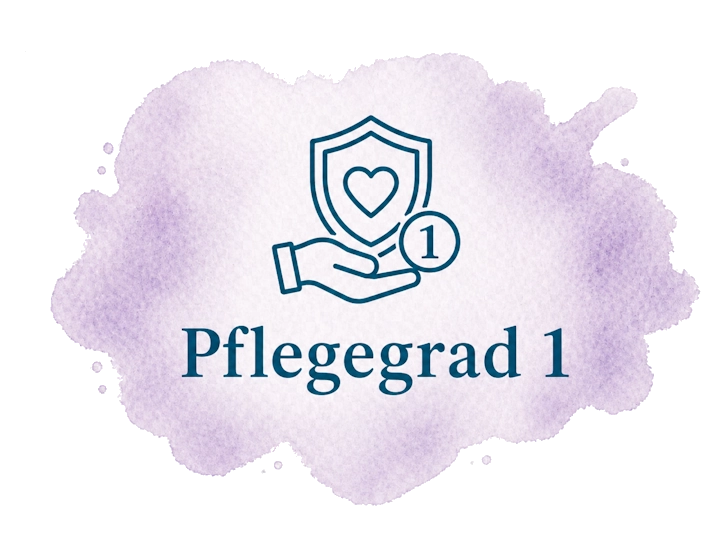
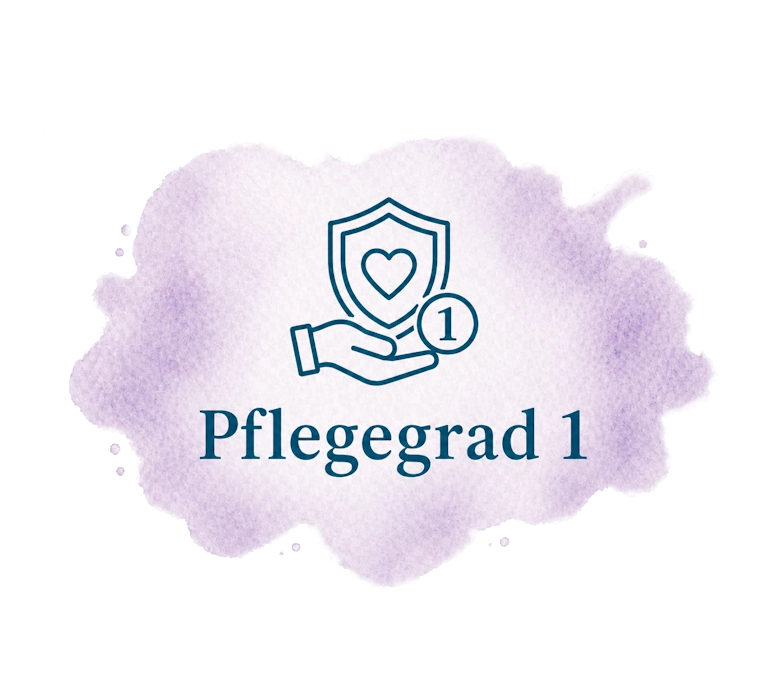
Assets: Pflegegrad-1-Ratgeber nutzt aktualisiertes pflegegrad1.webp
Made-with: Cursor

diff --git a/app/ratgeber/pflegegrad-1-der-ultimative-leitfaden/page.tsx b/app/ratgeber/pflegegrad-1-der-ultimative-leitfaden/page.tsx
@@ -46,7 +46,7 @@ export default function Pflegegrad1RatgeberPage() {
             <div className="mx-auto w-full max-w-[260px]">
               <div className="relative aspect-[4/3] overflow-hidden rounded-lg">
                 <Image
-                  src="/images/Ratgeber/ratgeber1.webp"
+                  src="/images/Ratgeber/pflegegrad1.webp"
                   alt="Ratgeber-Vorschaubild Pflegegrad 1 – Leistungen und Begutachtung"
                   fill
                   className="object-cover transition-transform duration-700 hover:scale-[1.02]"

diff --git a/config/ratgeber-betraege.ts b/config/ratgeber-betraege.ts
@@ -92,7 +92,7 @@ export const RATGEBER_BEITRAEGE: RatgeberBeitragMeta[] = [
     title: "Pflegegrad 1: der ultimative Leitfaden (2026)",
     excerpt:
       "Leistungen, Voraussetzungen & Experten-Tipps – inklusive Vorbereitung auf die MDK-Begutachtung.",
-    image: "/images/Ratgeber/ratgeber1.webp",
+    image: "/images/Ratgeber/pflegegrad1.webp",
     imageAlt: "Pflegegrad 1: Leistungen der Pflegeversicherung und Tipps zur MDK-Begutachtung",
     views: 623,
     tags: ["Pflegegrad 1", "MDK", "Begutachtung", "Leistungen", "Entlastungsbetrag"],
